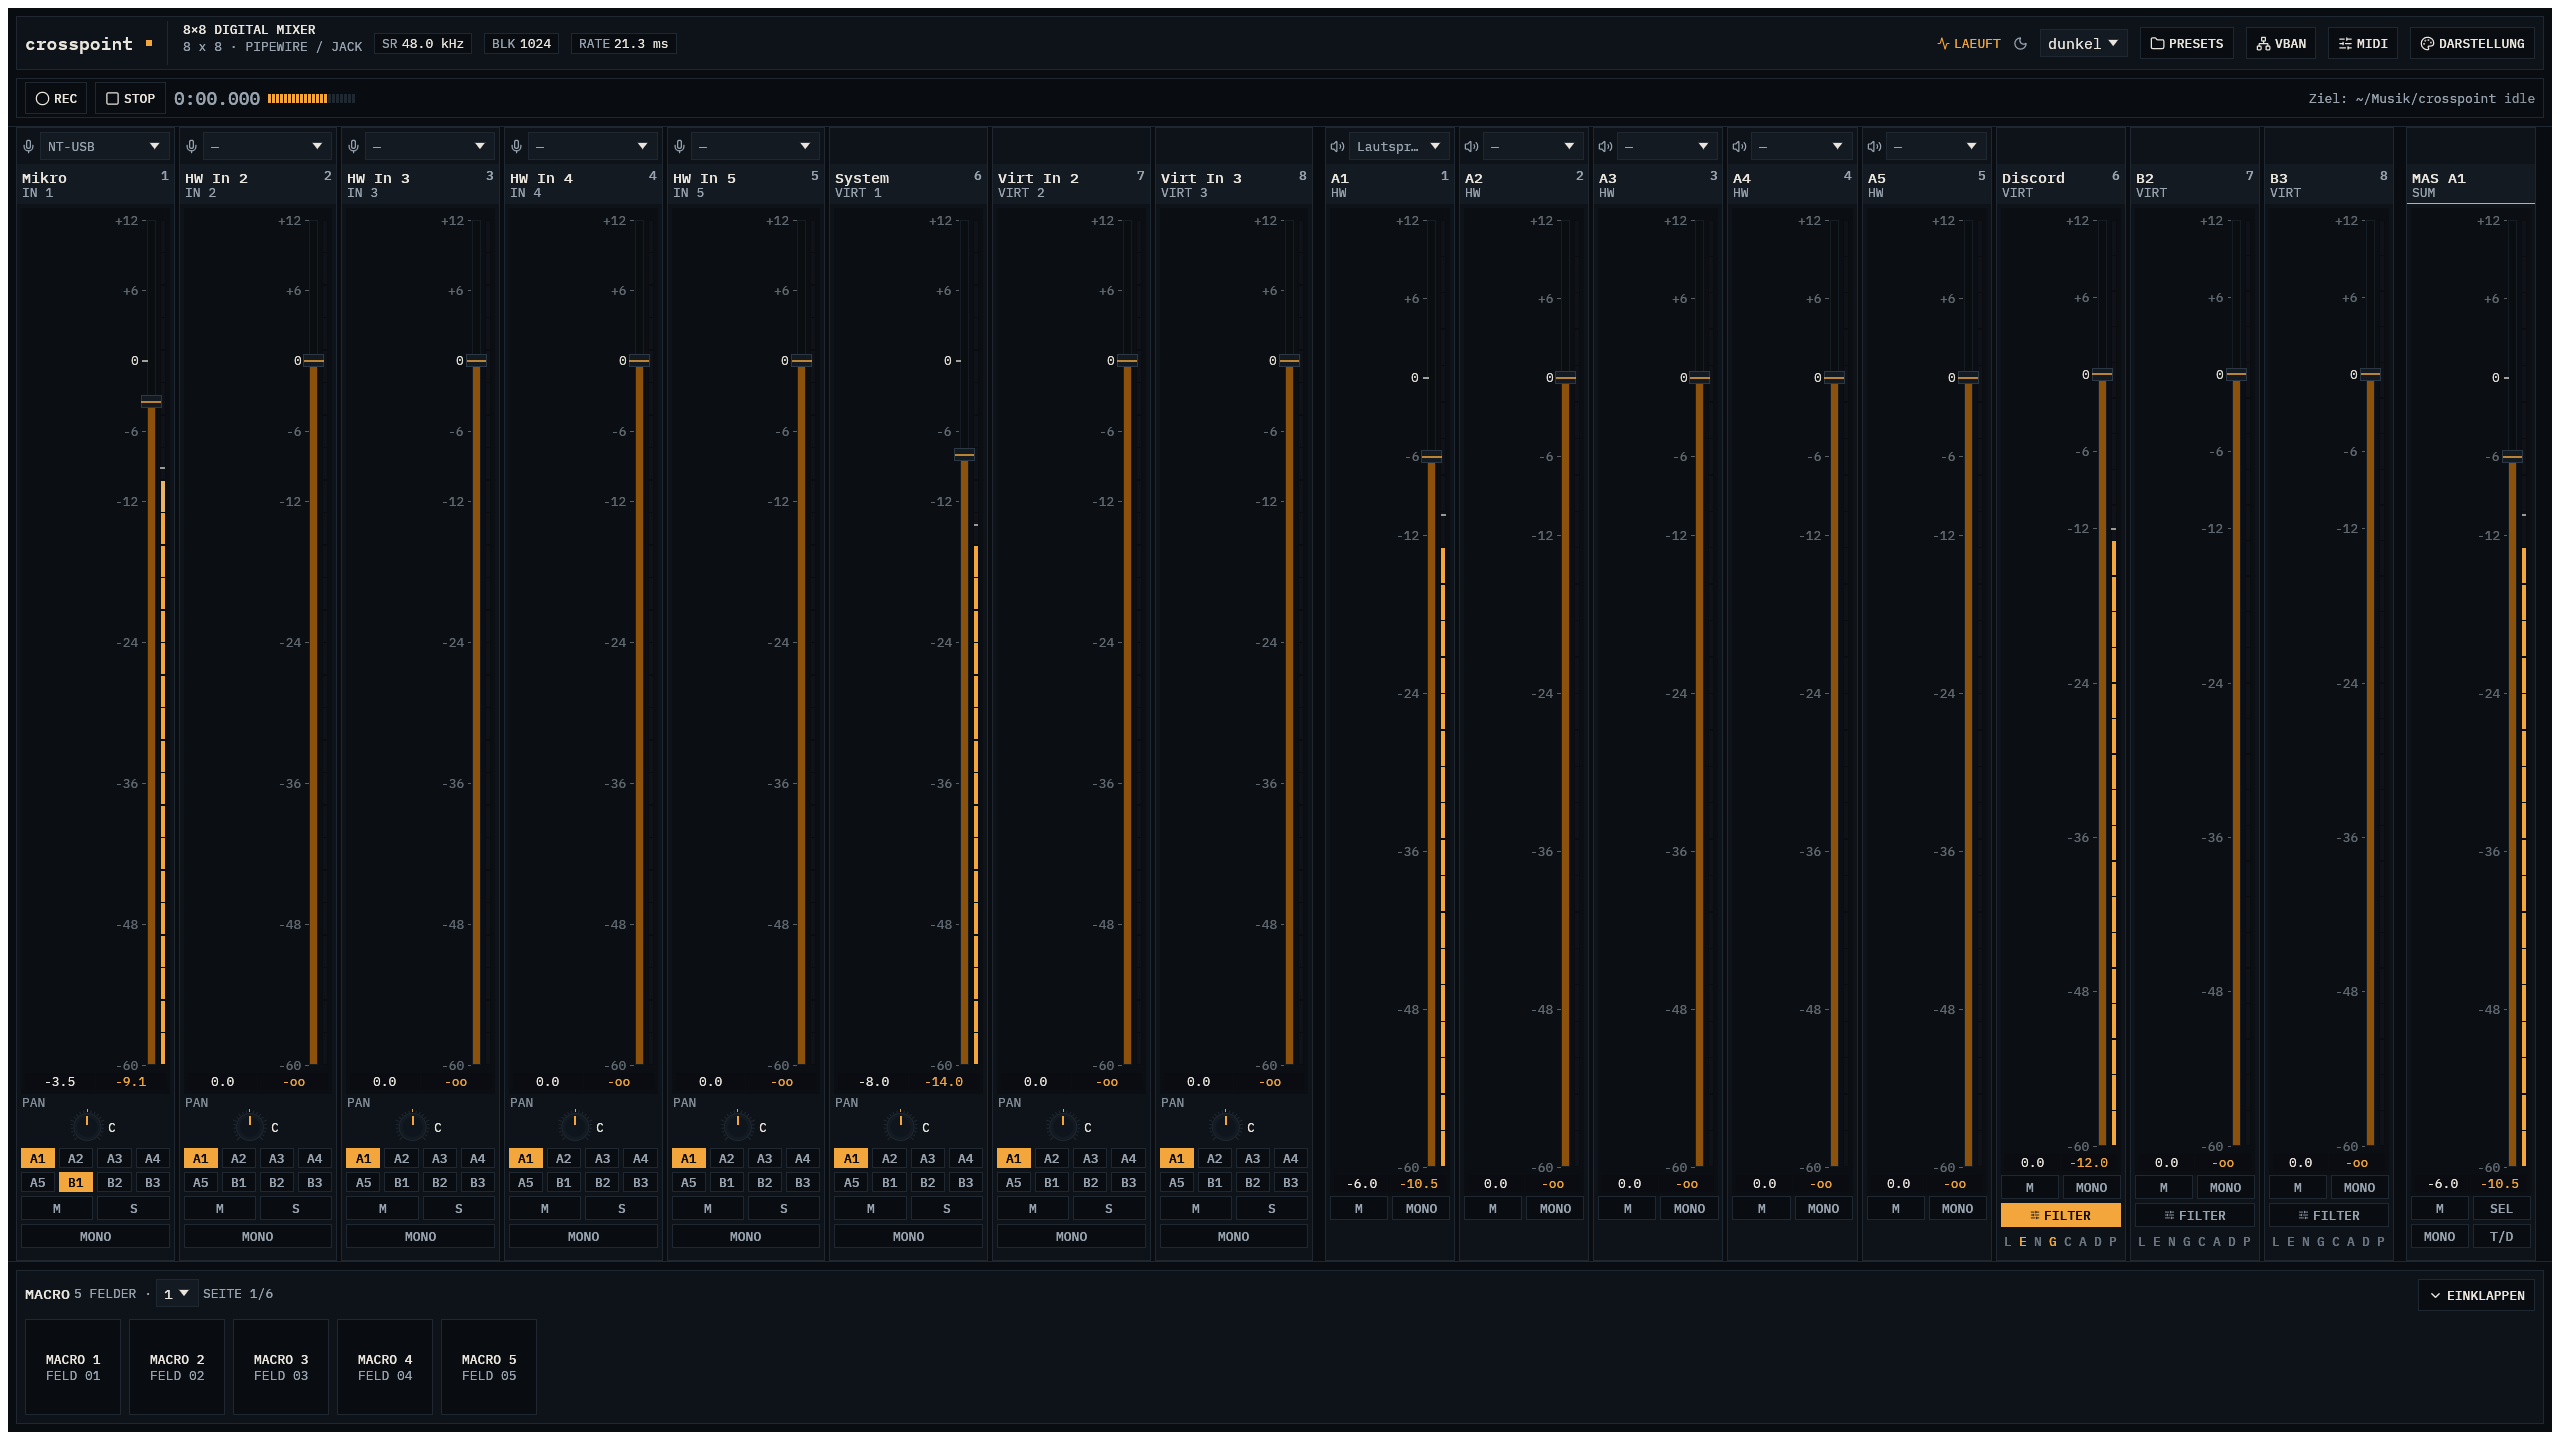
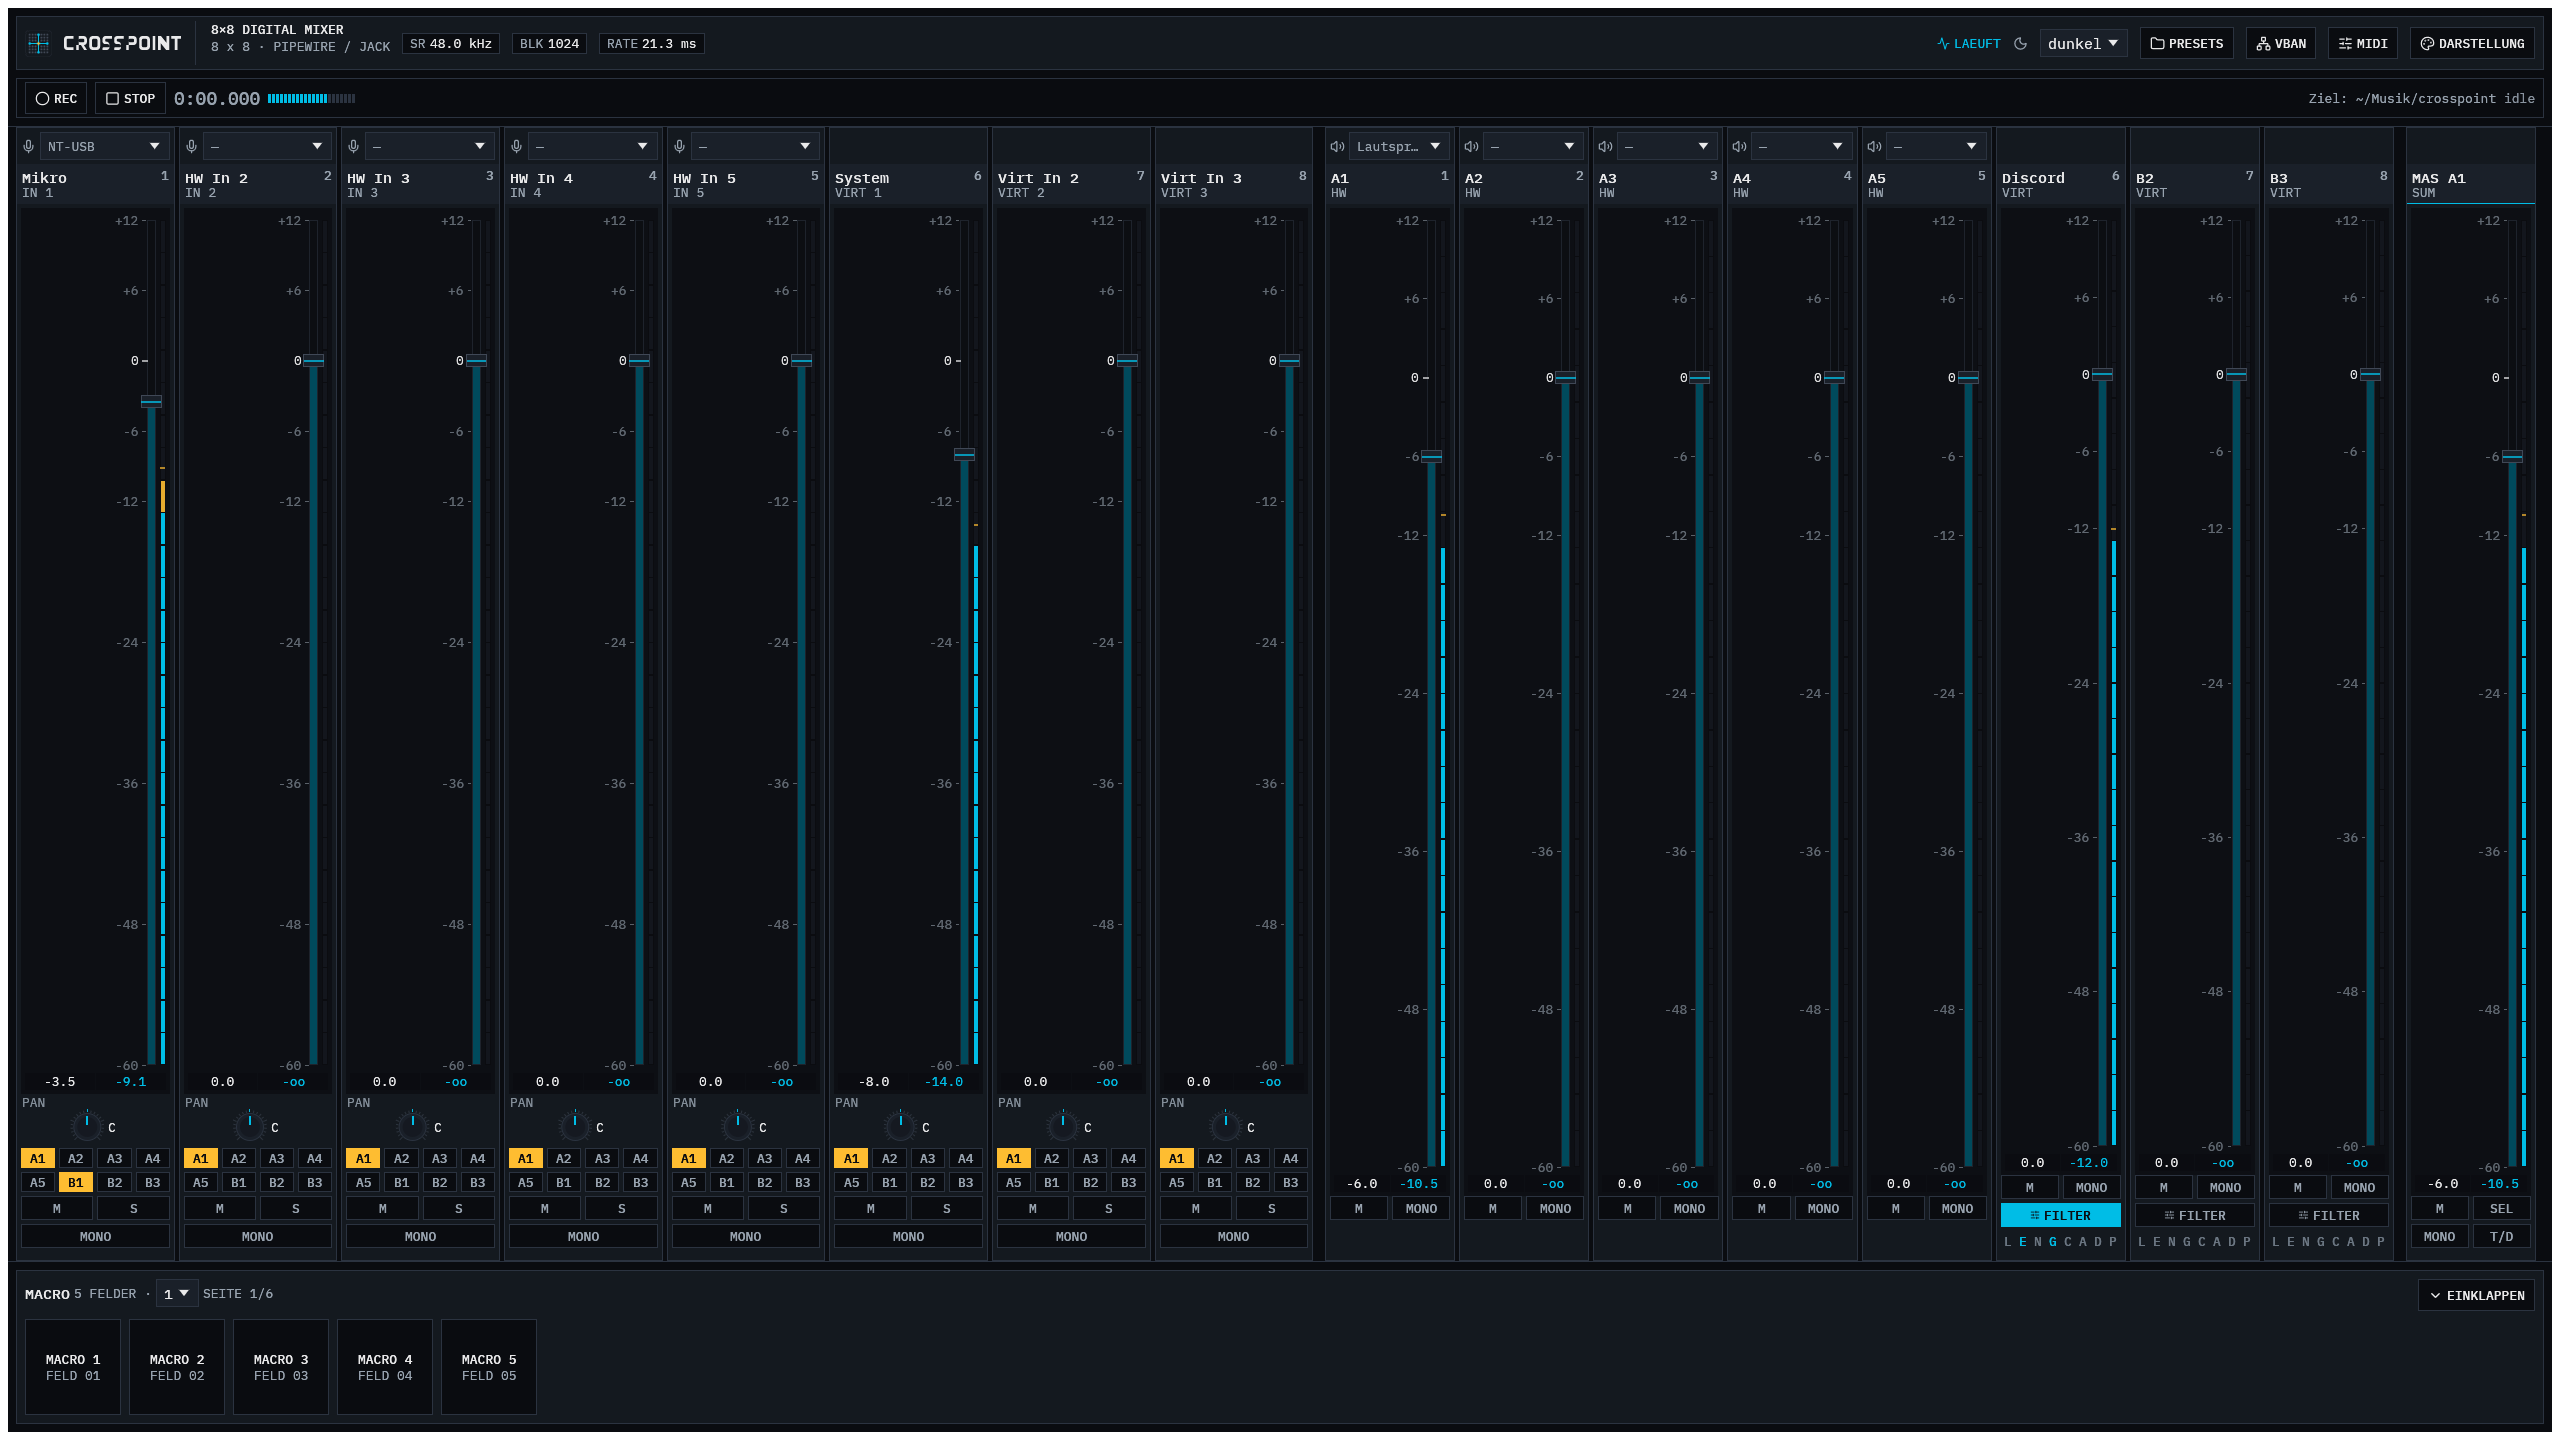
feat(fenster): Marke im Kopf als Zeichen mit Wortmarke
Statt "crosspoint ▪" steht in der Kopfleiste das Kachel-Zeichen und daneben die
Wortmarke als SVG, eingefärbt mit der Textfarbe — auf allen drei Themes
dasselbe Bild. Beides kommt aus assets/ (ADR 0008), nicht aus einer Schrift.

Der ungenutzte Baustein zeichen_text (nur für die alte Marke da) entfällt;
Screenshots in docs/bilder sind mit den neuen Farben und der neuen Marke neu
erzeugt.

diff --git a/crates/fenster/src/ansichten/kopf.rs b/crates/fenster/src/ansichten/kopf.rs
@@ -10,7 +10,6 @@ use crate::bausteine::{self, alpha};
 use crate::logik::{self, Kern};
 use crate::modell::{Aktion, Dialog, Meldung, Oberflaeche, Tape};
 use crate::thema::{self, Farben, Thema};
-
 pub fn kopf(ui: &mut Ui, f: &Farben, o: &Oberflaeche, k: &Kern, laeuft: bool, a: &mut Vec<Aktion>) {
     bausteine::rahmen(f, f.bg_panel)
         .inner_margin(egui::Margin::symmetric(
@@ -28,18 +27,7 @@ pub fn kopf(ui: &mut Ui, f: &Farben, o: &Oberflaeche, k: &Kern, laeuft: bool, a:
                 egui::Layout::left_to_right(egui::Align::Center),
                 |ui| {
                     ui.spacing_mut().item_spacing.x = thema::SPACE_3;
-                    ui.label(
-                        RichText::new("crosspoint")
-                            .font(egui::FontId::new(thema::FONT_SIZE_LG, thema::fett()))
-                            .color(f.text_default),
-                    );
-                    bausteine::zeichen_text(
-                        ui,
-                        "▪",
-                        egui::FontId::monospace(thema::FONT_SIZE_SM),
-                        f.accent_default,
-                        f.accent_default,
-                    );
+                    marke(ui, f);
                     if teile.untertitel {
                         ui.separator();
                         ui.vertical(|ui| {
@@ -133,6 +121,30 @@ pub fn kopf(ui: &mut Ui, f: &Farben, o: &Oberflaeche, k: &Kern, laeuft: bool, a:
                 },
             );
         });
+}
+
+/// Die Marke im Kopf: das Zeichen auf der Kachel und die Wortmarke. Beides
+/// sind SVGs aus `assets/` (ADR 0008), keine Schrift und kein Text: die
+/// Wortmarke wird mit der Textfarbe eingefärbt, das Zeichen bringt seine
+/// Farben selbst mit.
+pub fn marke(ui: &mut Ui, f: &Farben) {
+    // In der Vorlage ist das Zeichen zweimal so hoch wie die Großbuchstaben.
+    let hoehe = thema::FONT_SIZE_LG * 0.75;
+    ui.add(
+        egui::Image::new(egui::include_image!(
+            "../../../../assets/crosspoint-logo.svg"
+        ))
+        .fit_to_exact_size(egui::Vec2::splat(hoehe * 2.0))
+        .alt_text("Crosspoint-Zeichen"),
+    );
+    ui.add(
+        egui::Image::new(egui::include_image!(
+            "../../../../assets/crosspoint-schriftzug.svg"
+        ))
+        .tint(f.text_default)
+        .fit_to_exact_size(egui::Vec2::new(hoehe * 8.6625, hoehe))
+        .alt_text("Crosspoint"),
+    );
 }
 
 /// Das Icon eines Dialogs für den Kopfknopf: Ordner (Presets), Netzwerk

diff --git a/crates/fenster/src/betrieb.rs b/crates/fenster/src/betrieb.rs
@@ -85,7 +85,7 @@ pub fn args_lesen() -> Args {
     args_aus(std::env::args().skip(1))
 }
 
-/// Symbol des Fensters (aus dem Raster erzeugt, siehe AGENTS.md §8).
+/// Symbol des Fensters (PNG aus `assets/crosspoint-logo.svg`, ADR 0008).
 fn symbol() -> egui::IconData {
     eframe::icon_data::from_png_bytes(include_bytes!(
         "../../../data/icons/hicolor/256x256/apps/de.weppelmann.Crosspoint.png"
